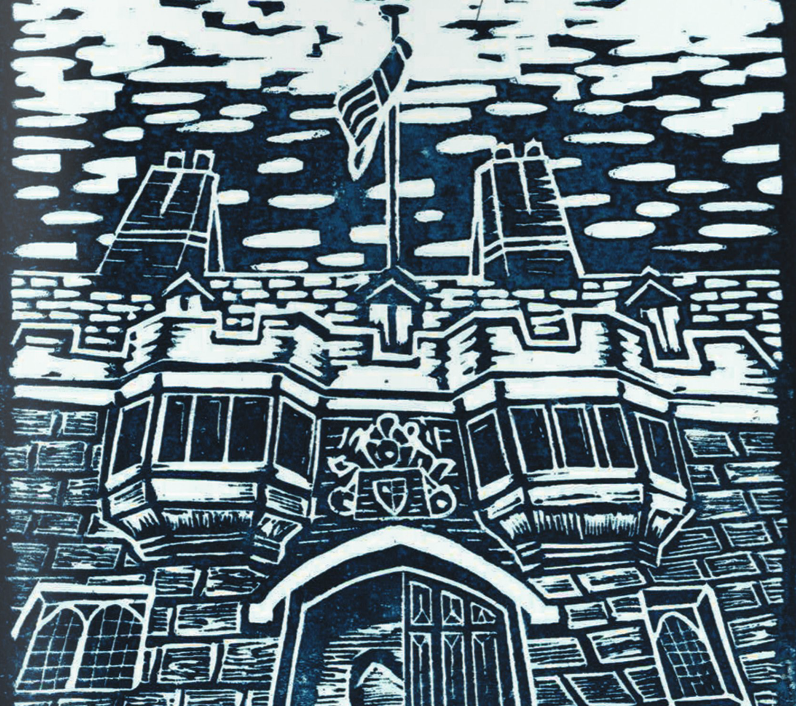
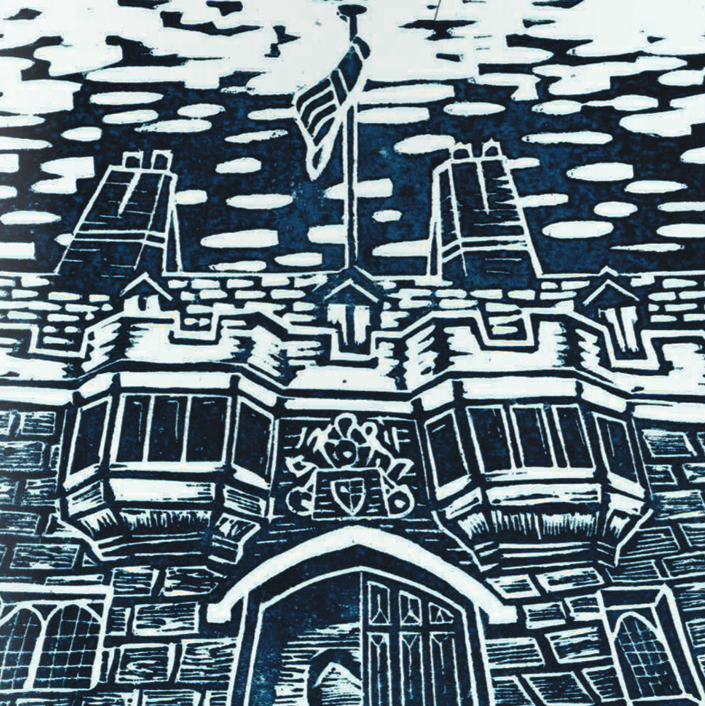
Added in all existing content

diff --git a/stylesheet.css b/stylesheet.css
@@ -80,23 +80,18 @@ body {
 #curating {
 	background-color: #FF7565;
 }
-
 #criticism {
 	background-color: #E85C71;
 }
-
 #essays {
 	background-color: #FF72CE;
 }
-
 #interviews {
 	background-color: #DC5CE8;
 }
-
 #lists {
 	background-color: #9055F5;
 }
-
 #publications {
 	background-color: #C865FF;
 }
@@ -111,26 +106,93 @@ body {
 }
 
 h1 {
-	color: #FFFFFF;
+	padding: 10px 16px;
 	font-size: 24px;
 	margin: 0;
-	padding: 10px 16px;
+	color: #FFFFFF;
 }
 
 h2 {
-	font-size: 18px;
+	font-size: 20px;
+	margin: 8px 0 8px 0;
 }
 
-/*Images*/
+h3 {
+	font-size: 16px;
+	margin: 0 0 12px 0;
+	font-weight: bold;
+}
 
+/* --------Images-------- [Total: 15]*/
+
+/* 1. Curating*/
+#curating_1 {
+	background-image: url('images/curating_confusionoftongues.png');
+	background-size: contain;
+}
+
+/*2. Criticism*/
+#criticism_1 {
+	background-image: url('images/criticism_marielund.jpg');
+	background-size: contain;
+}
+#criticism_2 {
+	background-image: url('images/criticism_callandresponse.jpg');
+	background-size: contain;
+}
+#criticism_3 {
+	background-image: url('images/criticism_edoerotica.jpg');
+	background-size: contain;
+}
+#criticism_4 {
+	background-image: url('images/criticism_getaway.jpg');
+	background-size: contain;
+}
+#criticism_5 {
+	background-image: url('images/criticism_hunt&darton.jpg');
+	background-size: contain;
+}
+
+/*3. Essays*/
+#essay_1 {
+	background-image: url('images/essay_artintosociety.png');
+	background-size: contain;
+}
+
+/*4. Interviews*/
+#interview_1 {
+	background-image: url('images/interview_christabel_balfour.jpg');
+	background-size: contain;
+}
+#interview_2 {
+	background-image: url('images/interview_changingspaces.jpg');
+	background-size: contain;
+}
+
+/*5. Publications*/
 #publication_1 {
 	background-image: url('images/confusionoftongues.png');
+	background-size: contain;
 }
-
 #publication_2 {
 	background-image: url('images/publications_pembrokestreet_lent_2013.png');
+	background-size: contain;
 }
-
 #publication_3 {
 	background-image: url('images/publications_pembrokestreet_michaelmas_2013.png');
+	background-size: contain;
+}
+
+/*6. Lists*/
+#lists_1 {
+	background-image: url('images/lists_henriksen_full_circle.jpg');
+	background-size: contain;
+}
+#lists_2 {
+	background-image: url('images/lists_derrymoore.jpg');
+	background-size: contain;
+}
+#lists_3 {
+	background-image: url('images/lists_williamhogarth.jpg');
+	background-size: contain;
 }

diff --git a/pages/criticism.html b/pages/criticism.html
@@ -46,6 +46,57 @@
     				</div>
 	    		</div>
 	    	</div>
+
+	    	<div class="row">
+	    		<div class="col-md-3">
+	    			<div class="circle" id="criticism_1"></div>
+	    		</div>
+	    		<div class="col-md-9">
+	    			<h2>Marie Lund: Dip</h2>
+	    			<h3>thisistomorrow</h3>
+	    			<link>See original <a href="http://thisistomorrow.info/articles/marie-lund-dip" target="blank ">here</a>.</link>
+	    		</div>
+	    	</div>
+	    	<div class="row">
+	    		<div class="col-md-3">
+	    			<div class="circle" id="criticism_2"></div>
+	    		</div>
+	    		<div class="col-md-9">
+	    			<h2>Glenn Ligon: Call and Response</h2>
+	    			<h3>thisistomorrow</h3>
+	    			<link>See original <a href="http://thisistomorrow.info/articles/glenn-ligon-call-and-response" target="blank ">here</a>.</link>
+	    		</div>
+	    	</div>
+	    	<div class="row">
+	    		<div class="col-md-3">
+	    			<div class="circle" id="criticism_3"></div>
+	    		</div>
+	    		<div class="col-md-9">
+	    			<h2>The Floating World of Ukiyo: Edo Erotica</h2>
+	    			<h3>The Cambridge Student</h3>
+	    			<link><em>Original version not availavle online.</em></link>
+	    		</div>
+	    	</div>
+	    	<div class="row">
+	    		<div class="col-md-3">
+	    			<div class="circle" id="criticism_4"></div>
+	    		</div>
+	    		<div class="col-md-9">
+	    			<h2>Get Away: Aid &amp; Abet</h2>
+	    			<h3>Varsity</h3>
+	    			<link>See original <a href="http://www.varsity.co.uk/culture/5085" target="blank ">here</a>.</link>
+	    		</div>
+	    	</div>
+	    	<div class="row">
+	    		<div class="col-md-3">
+	    			<div class="circle" id="criticism_5"></div>
+	    		</div>
+	    		<div class="col-md-9">
+	    			<h2>Visual Arts: Hunt &amp; Darton Cafe, 100 Regent Street</h2>
+	    			<h3>Varsity</h3>
+	    			<link>See original <a href="http://www.varsity.co.uk/reviews/4711" target="blank ">here</a>.</link>
+	    		</div>
+	    	</div>
 	    </div>
 
 	    <!-- Bootstrap Core JavaScript (placed at the end of the document so the pages load faster) -->

diff --git a/pages/lists.html b/pages/lists.html
@@ -46,6 +46,37 @@
     				</div>
 	    		</div>
 	    	</div>
+
+	    	<div class="row">
+	    		<div class="col-md-3">
+	    			<div class="circle" id="lists_1"></div>
+	    		</div>
+	    		<div class="col-md-9">
+	    			<h2>Top 10 Public Art Works in North London</h2>
+	    			<h3>The Culture Trip</h3>
+	    			<link>See original <a href="http://theculturetrip.com/europe/united-kingdom/england/london/articles/top-10-public-art-works-in-north-london/" target="blank ">here</a>.</link>
+	    		</div>
+	    	</div>
+	    	<div class="row">
+	    		<div class="col-md-3">
+	    			<div class="circle" id="lists_2"></div>
+	    		</div>
+	    		<div class="col-md-9">
+	    			<h2>Top 5 House Museums to Visit in London</h2>
+	    			<h3>The Culture Trip</h3>
+	    			<link>See original <a href="http://theculturetrip.com/europe/united-kingdom/england/london/articles/top-five-house-museums-to-visit-in-london/" target="blank ">here</a>.</link>
+	    		</div>
+	    	</div>
+	    	<div class="row">
+	    		<div class="col-md-3">
+	    			<div class="circle" id="lists_3"></div>
+	    		</div>
+	    		<div class="col-md-9">
+	    			<h2>Views of London in 10 Artworks</h2>
+	    			<h3>The Culture Trip</h3>
+	    			<link>See original <a href="http://theculturetrip.com/europe/united-kingdom/england/london/articles/views-of-london-in-10-artworks/" target="blank ">here</a>.</link>
+	    		</div>
+	    	</div>
 	    </div>
 
 	    <!-- Bootstrap Core JavaScript (placed at the end of the document so the pages load faster) -->

diff --git a/pages/publications.html b/pages/publications.html
@@ -52,7 +52,9 @@
 	    			<div class="circle" id="publication_1"></div>
 	    		</div>
 	    		<div class="col-md-9">
-	    			<h2>Confusion of Tongues</h2>
+	    			<h2>Confusion of Tongues (Digital Archive)</h2>
+	    			<h3>The Courtauld Gallery</h3>
+	    			<link>See original <a href="https://confusionoftongues.wordpress.com/" target="blank ">here</a>.</link>
 	    		</div>
 	    	</div>
 	    	<div class="row">
@@ -61,6 +63,8 @@
 	    		</div>
 	    		<div class="col-md-9">
 	    			<h2>Pembroke Street (Lent 2013)</h2>
+	    			<h3>Pembroke Street</h3>
+	    			<link>See original <a href="https://issuu.com/pembrokestreetmagazine/docs/pembroke_street_l13" target="blank ">here</a>.</link>
 	    		</div>
 	    	</div>
 	    	<div class="row">
@@ -69,6 +73,8 @@
 	    		</div>
 	    		<div class="col-md-9">
 	    			<h2>Pembroke Street (Michaelmas 2013)</h2>
+	    			<h3>Pembroke Street</h3>
+	    			<link>See original <a href="https://issuu.com/pembrokestreetmagazine/docs/pem_st_final_draft" target="blank ">here</a>.</link>
 	    		</div>
 	    	</div>
 	    </div>

diff --git a/pages/interviews.html b/pages/interviews.html
@@ -46,6 +46,27 @@
     				</div>
 	    		</div>
 	    	</div>
+
+	    	<div class="row">
+	    		<div class="col-md-3">
+	    			<div class="circle" id="interview_1"></div>
+	    		</div>
+	    		<div class="col-md-9">
+	    			<h2>A Woven City: Interview with Weaver Christabel Balfour</h2>
+	    			<h3>The Culture Trip</h3>
+	    			<link>See original <a href="http://theculturetrip.com/europe/united-kingdom/england/london/articles/a-woven-city-interview-with-weaver-christabel-balfour-/" target="blank ">here</a>.</link>
+	    		</div>
+	    	</div>
+	    	<div class="row">
+	    		<div class="col-md-3">
+	    			<div class="circle" id="interview_2"></div>
+	    		</div>
+	    		<div class="col-md-9">
+	    			<h2>Art comes to the High Street</h2>
+	    			<h3>Varsity</h3>
+	    			<link>See original <a href="http://www.varsity.co.uk/culture/4929" target="blank ">here</a>.</link>
+	    		</div>
+	    	</div>
 	    </div>
 
 	    <!-- Bootstrap Core JavaScript (placed at the end of the document so the pages load faster) -->

diff --git a/pages/curating.html b/pages/curating.html
@@ -46,6 +46,17 @@
     				</div>
 	    		</div>
 	    	</div>
+
+	    	<div class="row">
+	    		<div class="col-md-3">
+	    			<div class="circle" id="curating_1"></div>
+	    		</div>
+	    		<div class="col-md-9">
+	    			<h2>Confusion of Tongues</h2>
+	    			<h3>The Courtauld Gallery</h3>
+	    			<link>See original <a href="http://courtauld.ac.uk/gallery/what-on/exhibitions-displays/confusion-tongues" target="blank ">here</a>.</link>
+	    		</div>
+	    	</div>
 	    </div>
 
 	    <!-- Bootstrap Core JavaScript (placed at the end of the document so the pages load faster) -->

diff --git a/pages/essays.html b/pages/essays.html
@@ -46,6 +46,17 @@
     				</div>
 	    		</div>
 	    	</div>
+
+	    	<div class="row">
+	    		<div class="col-md-3">
+	    			<div class="circle" id="essay_1"></div>
+	    		</div>
+	    		<div class="col-md-9">
+	    			<h2>Art into Society</h2>
+	    			<h3>Institute of Contemporary Arts</h3>
+	    			<link>See original <a href="https://www.ica.org.uk/blog/archival-reflections-art-into-society" target="blank ">here</a>.</link>
+	    		</div>
+	    	</div>
 	    </div>
 
 	    <!-- Bootstrap Core JavaScript (placed at the end of the document so the pages load faster) -->
